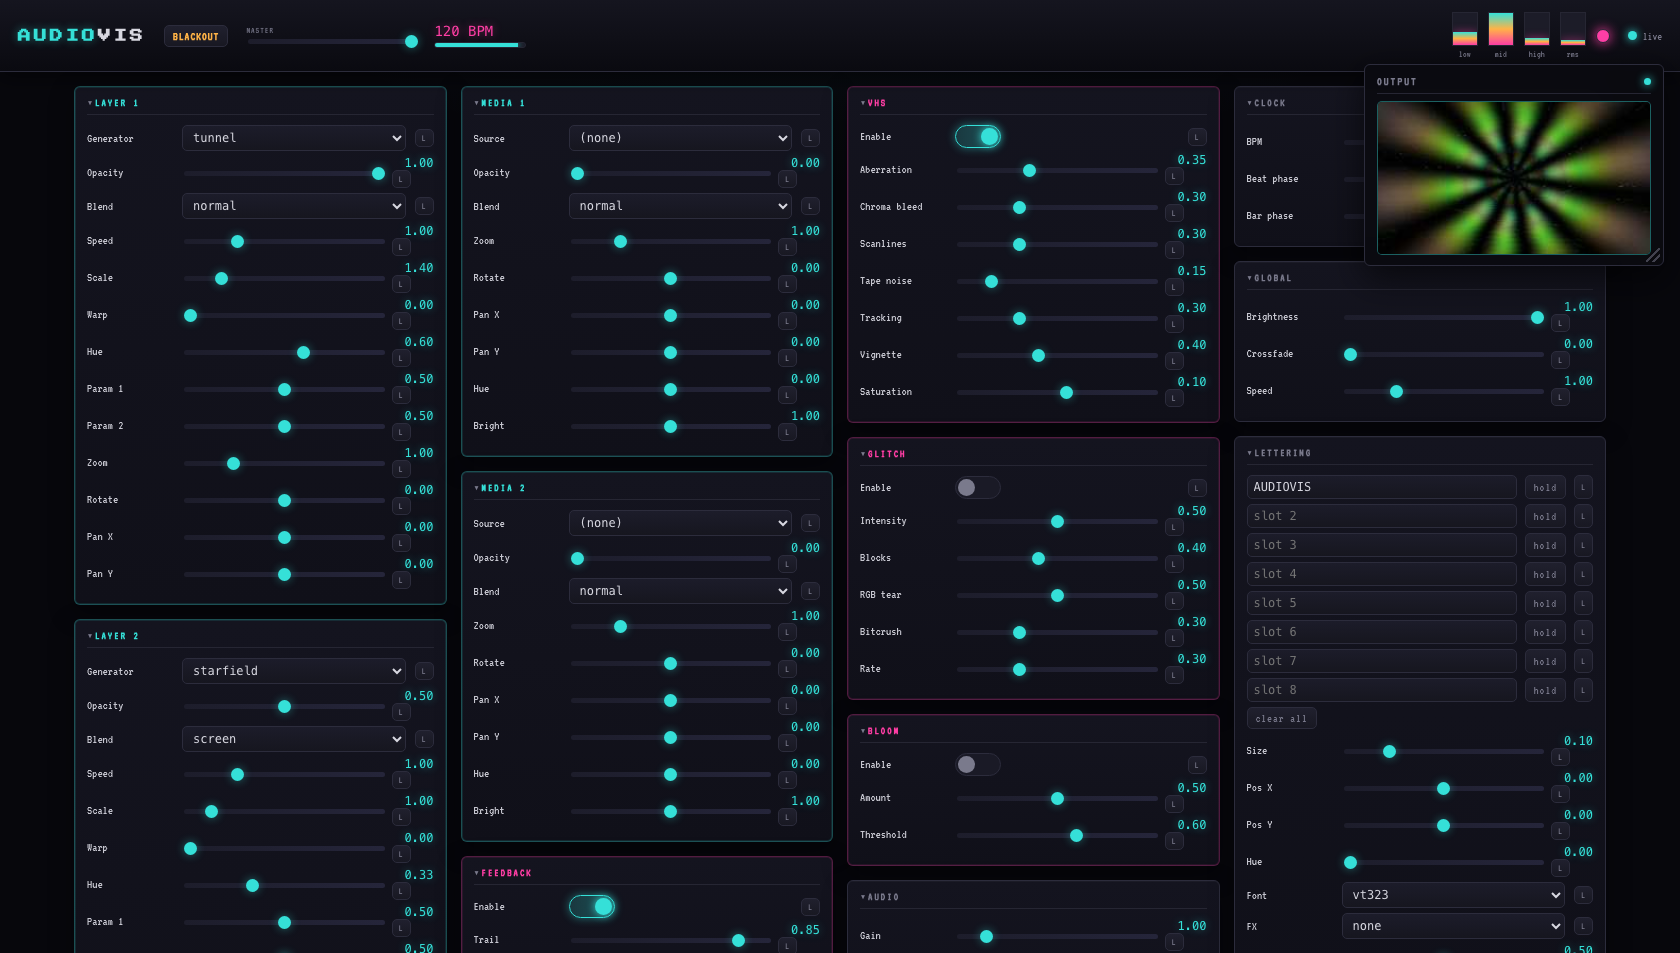
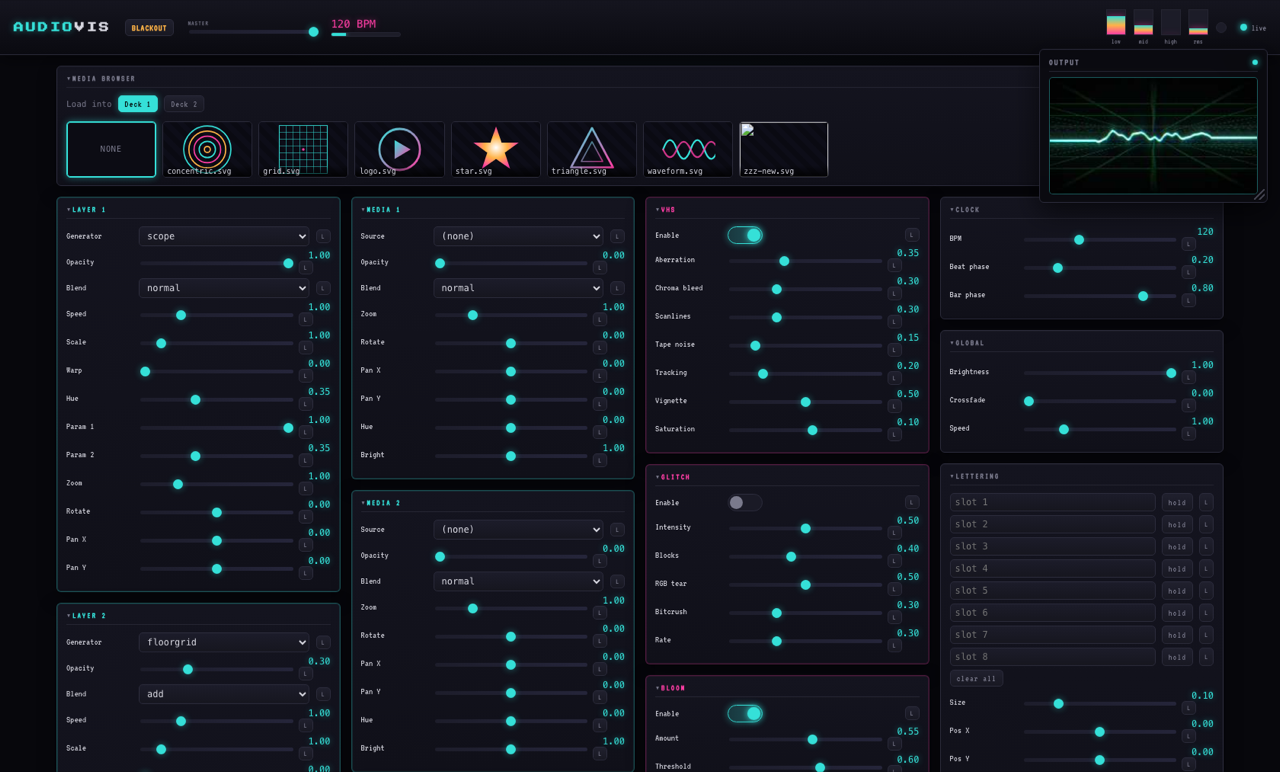
Web UI: clip-style media browser grid
A thumbnail grid of the media library, with Deck 1 / Deck 2 load targets and a
rescan button - click a clip to load it into a deck. Source dropdowns refresh
when the file list changes.

diff --git a/webui/app.js b/webui/app.js
@@ -8,7 +8,7 @@
 
 // Bump on every UI change so it is obvious in the console whether the browser
 // is running fresh assets or a stale cached copy.
-const UI_BUILD = "ui-23";
+const UI_BUILD = "ui-24";
 console.log(`audiovis ${UI_BUILD} loaded`);
 
 const BLEND_NAMES = ["normal", "add", "screen", "multiply", "difference"];
@@ -39,6 +39,8 @@ let generators = [];
 let mediaFiles = ["(none)"];
 let modSources = [];
 let audioDevices = [], audioDevice = "", midiPorts = [], midiPort = "";
+let mediaSourceSelects = []; // {sel, fill} for live source-dropdown refresh
+let mediaDeck = 0;           // which media layer the browser loads into
 let latestTelemetry = null;
 let blackoutPrev = null; // brightness remembered while blacked out
 let presetList = [];
@@ -137,6 +139,10 @@ function connect() {
         if (msg.media && msg.media.length) mediaFiles = msg.media;
         if (msg.mod_sources && msg.mod_sources.length) modSources = msg.mod_sources;
         buildUI(msg.schema);
+      } else if (msg.media && msg.media.length) {
+        // media-only update (a rescan picked up new files)
+        mediaFiles = msg.media;
+        onMediaListChanged();
       }
       if (msg.changes) for (const c of msg.changes) applyChange(c);
       if (msg.telemetry) applyTelemetry(msg.telemetry);
@@ -199,6 +205,7 @@ function groupOrder(name) {
 function buildUI(schema) {
   for (const s of schema) specsByPath.set(s.path, s);
   widgets.clear();
+  mediaSourceSelects = [];
   const main = document.getElementById("groups");
   main.innerHTML = "";
 
@@ -209,6 +216,7 @@ function buildUI(schema) {
   }
 
   main.appendChild(buildMonitor()); // live output monitor up top, Resolume-style
+  main.appendChild(buildMediaBrowser()); // clip-style media library grid
   const names = [...groups.keys()].sort((a, b) => groupOrder(a) - groupOrder(b));
   for (const name of names) {
     if (name === "Text") { main.appendChild(buildLettering(groups.get(name))); continue; }
@@ -498,11 +506,13 @@ function buildRow(spec) {
     widget = { set: (v) => t.classList.toggle("on", v >= 0.5) };
   } else if (spec.kind === "int" && intOptions(spec.path)) {
     const sel = el("select");
-    const opts = intOptions(spec.path);
-    opts.forEach((nm, i) => { const o = el("option", null, nm); o.value = i; sel.appendChild(o); });
+    const fill = () => { sel.innerHTML = ""; intOptions(spec.path).forEach((nm, i) => { const o = el("option", null, nm); o.value = i; sel.appendChild(o); }); };
+    fill();
     sel.onchange = () => sendRaw(spec.path, parseInt(sel.value, 10));
     mid.appendChild(sel);
     val.style.display = "none";
+    // Media source dropdowns are refreshed live when the file list changes.
+    if (spec.path.endsWith(".source")) mediaSourceSelects.push({ sel, fill });
     widget = { set: (v) => { sel.value = Math.round(v); } };
   } else {
     // float or generic int: a normalised slider, value display shows raw.
@@ -574,6 +584,77 @@ function buildLettering(specs) {
     sec.appendChild(buildRow(spec));
   }
   return sec;
+}
+
+// --- media browser (clip-style library that loads into the media decks) ---
+
+let mediaGridEl = null;
+
+// A grid of thumbnails for everything in the media folder; click a tile to load
+// it into the selected media deck (Media 1 / Media 2), like a clip bank.
+function buildMediaBrowser() {
+  const sec = el("div", "group matrix mediabrowser");
+  const h = el("h2", null, "Media browser");
+  h.onclick = (e) => { if (e.target === h) sec.classList.toggle("collapsed"); };
+  sec.appendChild(h);
+
+  const bar = el("div", "mbbar");
+  bar.appendChild(el("span", "gl", "Load into"));
+  const mk = (label, deck) => {
+    const b = el("button", "btn deckbtn" + (mediaDeck === deck ? " on" : ""), label);
+    b.dataset.deck = deck;
+    b.onclick = () => { mediaDeck = deck; renderDeckBtns(bar); renderMediaGrid(); };
+    return b;
+  };
+  bar.appendChild(mk("Deck 1", 0));
+  bar.appendChild(mk("Deck 2", 1));
+  const spacer = el("span"); spacer.style.flex = "1"; bar.appendChild(spacer);
+  const rescan = el("button", "btn", "Rescan folder");
+  rescan.title = "pick up files you just dropped into the media folder";
+  rescan.onclick = () => send({ rescan_media: true });
+  bar.appendChild(rescan);
+  sec.appendChild(bar);
+
+  mediaGridEl = el("div", "mbgrid");
+  sec.appendChild(mediaGridEl);
+  renderMediaGrid();
+  return sec;
+}
+
+function renderDeckBtns(bar) {
+  bar.querySelectorAll(".deckbtn").forEach((b) => b.classList.toggle("on", +b.dataset.deck === mediaDeck));
+}
+
+// Set the active deck's source to a file index, and reveal it if hidden.
+function loadClip(idx) {
+  sendRaw(`media.${mediaDeck}.source`, idx);
+  const op = paramValues.get(`media.${mediaDeck}.opacity`);
+  if (idx > 0 && (!op || op.value < 0.01)) sendNorm(`media.${mediaDeck}.opacity`, 1.0);
+  setTimeout(renderMediaGrid, 60);
+}
+
+function renderMediaGrid() {
+  if (!mediaGridEl) return;
+  mediaGridEl.innerHTML = "";
+  const cur = Math.round((paramValues.get(`media.${mediaDeck}.source`) || {}).value || 0);
+  const clear = el("div", "clip clear" + (cur === 0 ? " on" : ""));
+  clear.appendChild(el("div", "cliplbl", "none"));
+  clear.onclick = () => loadClip(0);
+  mediaGridEl.appendChild(clear);
+  for (let i = 1; i < mediaFiles.length; i++) {
+    const tile = el("div", "clip" + (cur === i ? " on" : ""));
+    const img = el("img"); img.loading = "lazy"; img.src = "media/" + encodeURIComponent(mediaFiles[i]);
+    tile.appendChild(img);
+    tile.appendChild(el("div", "cliplbl", mediaFiles[i]));
+    tile.onclick = () => loadClip(i);
+    mediaGridEl.appendChild(tile);
+  }
+}
+
+// Called when the server sends a fresh media list (after a rescan).
+function onMediaListChanged() {
+  renderMediaGrid();
+  for (const { fill, sel } of mediaSourceSelects) { const v = sel.value; fill(); sel.value = v; }
 }
 
 // --- live output monitor ---
@@ -790,6 +871,8 @@ function applyChange(c) {
     const m = document.getElementById("master");
     if (m && document.activeElement !== m) m.value = c.norm || 0;
   }
+  // Reflect a deck's loaded clip in the media browser highlight.
+  if (c.path === `media.${mediaDeck}.source`) renderMediaGrid();
 }
 
 function applyTelemetry(t) {

diff --git a/webui/style.css b/webui/style.css
@@ -389,3 +389,39 @@ select, input[type=text] { padding: 4px 6px; font-size: 12px; }
 /* I/O panel: same accent family as Audio, sits with the global controls. */
 .group.io { border-color: rgba(255, 179, 71, 0.3); }
 .group.io h2 { color: var(--amber); }
+
+/* ============================================================
+   MEDIA BROWSER - a clip-bank grid of media thumbnails
+   ============================================================ */
+.mediabrowser .mbbar { display: flex; align-items: center; gap: 8px; margin-bottom: 12px; flex-wrap: wrap; }
+.mediabrowser .mbbar .gl { color: var(--text-dim); font-size: 11px; }
+.mediabrowser .deckbtn.on { color: #000; background: var(--cyan); border-color: var(--cyan); box-shadow: var(--glow-cyan); }
+.mbgrid {
+  display: grid;
+  grid-template-columns: repeat(auto-fill, minmax(116px, 1fr));
+  gap: 8px;
+}
+.clip {
+  position: relative;
+  aspect-ratio: 16 / 10;
+  background: #0c0c14;
+  border: 1px solid var(--line2);
+  border-radius: 5px;
+  overflow: hidden;
+  cursor: pointer;
+  transition: border-color 0.12s, transform 0.08s;
+}
+.clip:hover { border-color: var(--cyan); transform: translateY(-1px); }
+.clip.on { border-color: var(--cyan); box-shadow: var(--glow-cyan), 0 0 0 1px var(--cyan) inset; }
+.clip img {
+  width: 100%; height: 100%; object-fit: contain;
+  background: repeating-linear-gradient(45deg, #0a0a12 0 7px, #0d0d18 7px 14px);
+}
+.clip .cliplbl {
+  position: absolute; left: 0; right: 0; bottom: 0;
+  padding: 2px 5px; font-size: 10px; color: var(--text);
+  background: linear-gradient(0deg, rgba(0,0,0,0.85), transparent);
+  white-space: nowrap; overflow: hidden; text-overflow: ellipsis;
+}
+.clip.clear { display: flex; align-items: center; justify-content: center; }
+.clip.clear .cliplbl { position: static; background: none; color: var(--text-dim); text-transform: uppercase; letter-spacing: 1px; }

diff --git a/README.md b/README.md
@@ -36,11 +36,12 @@ launch. All frames here are generated live (no audio input).*
 
 ## Web control surface
 
-A dense, dark instrument surface served straight from the binary — per-layer
-decks, the media layers, the effects rack, audio analyzer, the I/O picker, the
-modulation grid and a **live output monitor** that floats over the page (drag it
-anywhere, resize it from the corner, fold it away). Everything is two-way synced
-over a protobuf websocket.
+A dense, dark instrument surface served straight from the binary — a clip-style
+**media browser** that loads any image/SVG into the media decks, per-layer decks,
+the effects rack, audio analyzer, the I/O picker, the modulation grid and a
+**live output monitor** that floats over the page (drag it anywhere, resize it
+from the corner, fold it away). Everything is two-way synced over a protobuf
+websocket.
 
 ![web UI](docs/img/webui.png)
 
@@ -66,7 +67,8 @@ Composited layers run through a chain of toggleable, modulatable effects:
 Two extra layers load your own **images (PNG/JPG)** or **SVG** from a `media/`
 folder and composite them over the generators with the same transform vocabulary
 (zoom / rotate / pan), plus hue, brightness, opacity and blend mode. SVGs are
-rasterised once on load; the picker in the web UI lists whatever you drop in.
+rasterised once on load. Drop files into `media/`, hit **Rescan** in the web
+UI's media browser and click a thumbnail to load it into a deck.
 
 ![media layer](docs/img/media.png)
 